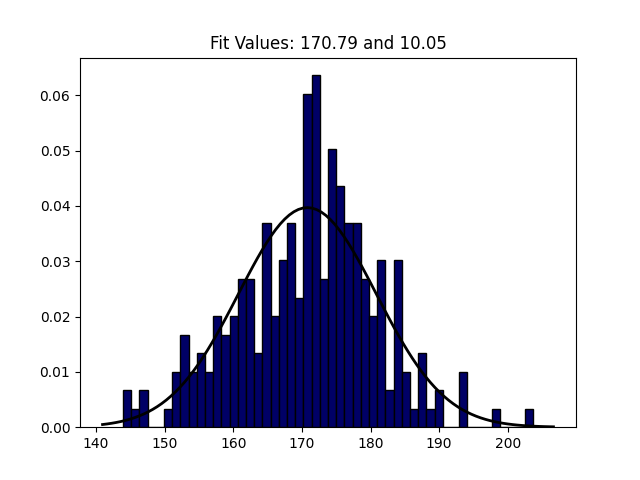
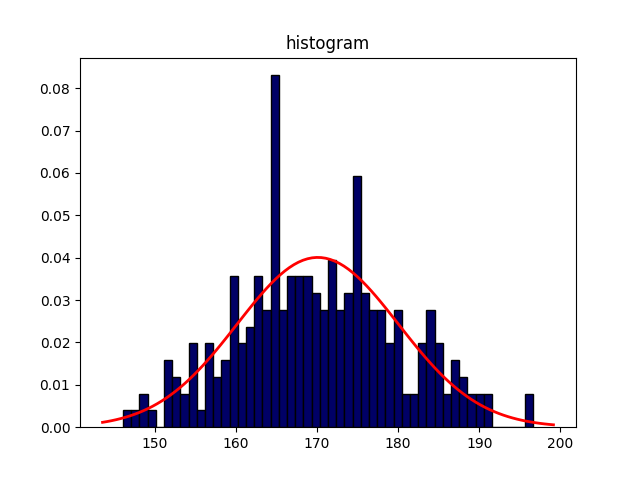
updated histogram function

diff --git a/code/baseline.py b/code/baseline.py
@@ -3,17 +3,17 @@ import numpy as np
 from scipy.stats import norm 
 
 def make_histogram(values: list, title_histogram: str) -> None:
-    mu, std = norm.fit(values) 
+    mean, std = norm.fit(values) 
     plt.hist(values, bins=50, density=True, edgecolor='black', color='#000066')
 
     xmin, xmax = plt.xlim() 
-    x = np.linspace(xmin, xmax, 100) 
-    p = norm.pdf(x, mu, std) 
+    linespace = np.linspace(xmin, xmax, 100) 
+    line = norm.pdf(linespace, mean, std) 
     
-    plt.plot(x, p, 'k', linewidth=2) 
+    plt.plot(linespace, line, 'r', linewidth=2) 
     plt.title(title_histogram) 
     plt.savefig(f'../docs/histogram.png')
 
 if __name__ == "__main__":
     x = np.random.normal(170, 10, 250)
-    make_histogram(x)
+    make_histogram(x, 'histogram')
